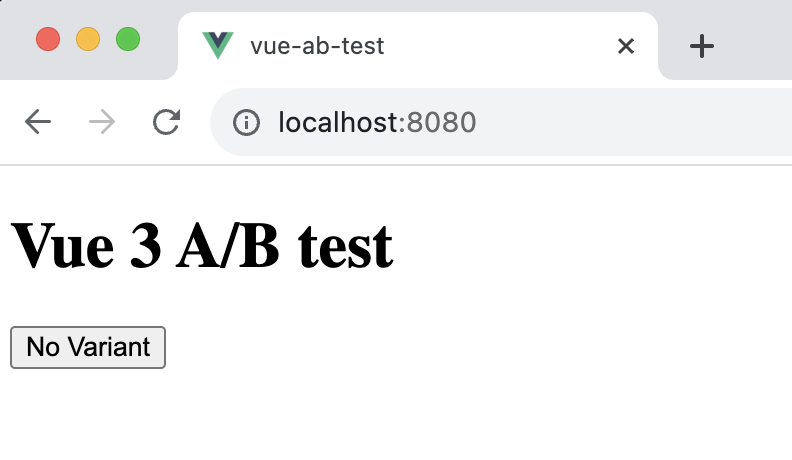
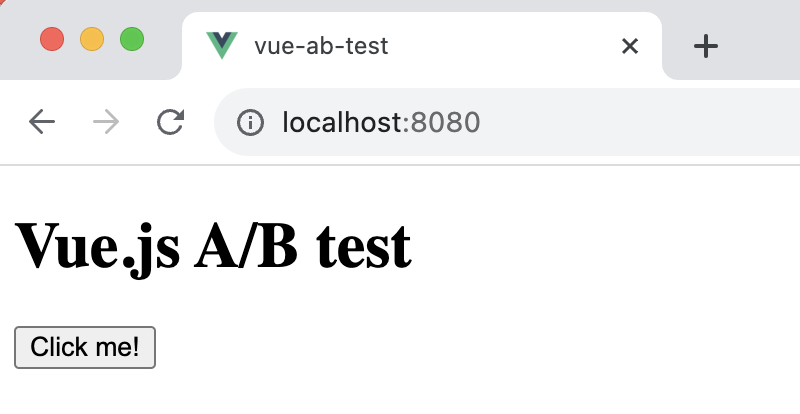
tweaks

diff --git a/contents/tutorials/vue-ab-tests.md b/contents/tutorials/vue-ab-tests.md
@@ -5,7 +5,7 @@ author: ["lior-neu-ner"]
 tags: ['experimentation']
 ---
 
-A/B tests help you make your Vue app better by enabling you to compare the impact of code changes on key metrics. To show you how to set one up, in this tutorial we will create a basic Vue app, add PostHog, create an A/B test and implement the code for it.
+A/B tests help you make your Vue app better by enabling you to compare the impact of code changes on key metrics. To show you how to set one up, in this tutorial we create a basic Vue app, add PostHog, create an A/B test and implement the code for it.
 
 ## Creating a Vue app
 
@@ -16,7 +16,6 @@ First, ensure [Node.js is installed](https://nodejs.dev/en/learn/how-to-install-
 ```bash
 npm install -g @vue/cli
 vue create vue-ab-test
-cd vue-ab-test
 ```
 
 Make sure to select `[Vue 3] babel, eslint` as the Vue version.
@@ -26,7 +25,7 @@ Next, replace the code in `App.vue` with a simple heading and button:
 ```vue file=App.vue
 <template>
   <div id="app">
-    <h1>We are testing this button:</h1>
+    <h1>Vue.js A/B test</h1>
     <button @click="handleClick">Click me!</button>
   </div>
 </template>
@@ -45,7 +44,7 @@ export default {
 
 Run `npm run serve` to start your app.
 
-![Basic Vue app](../images/tutorials/nuxtjs-ab-tests/basic-app.png.png)
+![Basic Vue app](../images/tutorials/vue-ab-tests/basic-app.png)
 
 ## Adding PostHog
 
@@ -60,7 +59,7 @@ npm install posthog-js
 Create a new [plugin](https://vuejs.org/guide/reusability/plugins) by first creating a new folder called `plugins` and then a new file `posthog.js`:
 
 ```bash
-mkdir plugins #skip if you already have one
+mkdir plugins
 cd plugins 
 touch posthog.js
 ```
@@ -84,7 +83,7 @@ export default {
 
 Replace `<ph_project_api_key>` and `<ph_instance_address>` with your your PostHog API key and host. You can find these in your [PostHog project settings](https://app.posthog.com/settings/project).
 
-Finally, activate your plugin in `main.js` where you initialize your app:
+Finally, activate your plugin in `main.js`:
 
 ```js file=main.js
 import { createApp } from 'vue'
@@ -140,7 +139,7 @@ Update your code in `App.vue` to the following:
 ```vue file=App.vue
 <template>
   <div id="app">
-    <h1>Vue 3 A/B test</h1>
+    <h1>Vue.js A/B test</h1>
     <button @click="handleClick">{{ buttonText }}</button>
   </div>
 </template>
@@ -175,7 +174,6 @@ Now if you refresh your app, you should see the button text updated to either `C
 With this, you’re ready to launch your experiment!
 
 ## Further reading
-https://posthog.com/docs/libraries/vue-js
 
 - [PostHog Vue.js docs](/docs/libraries/vue-js)
 - [Building a Vue cookie consent banner](/tutorials/vue-cookie-banner)
